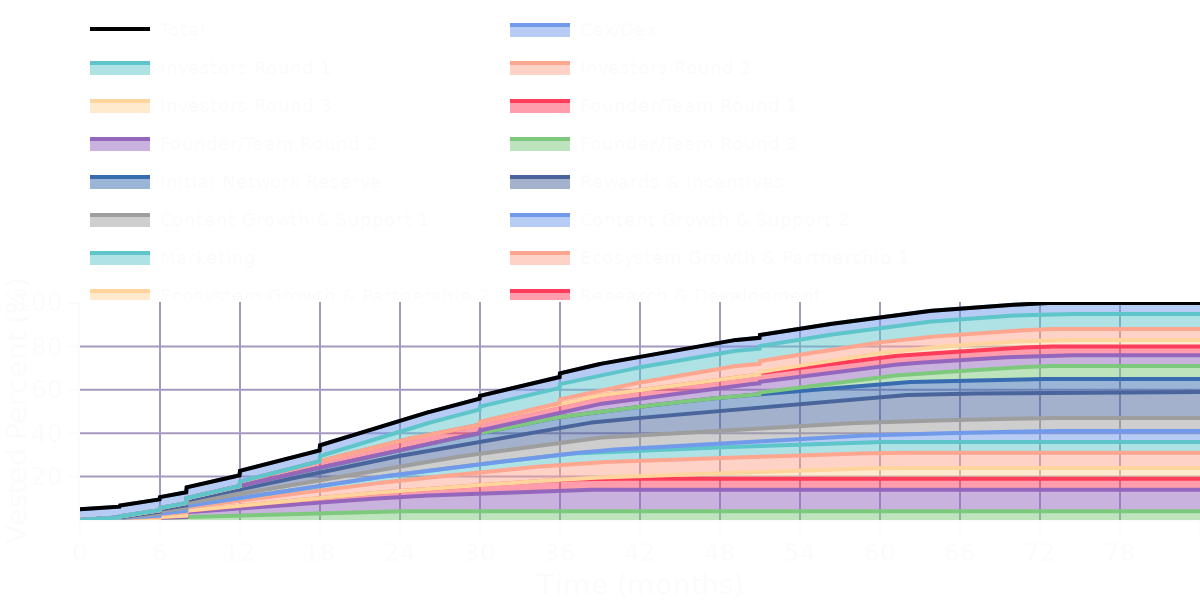
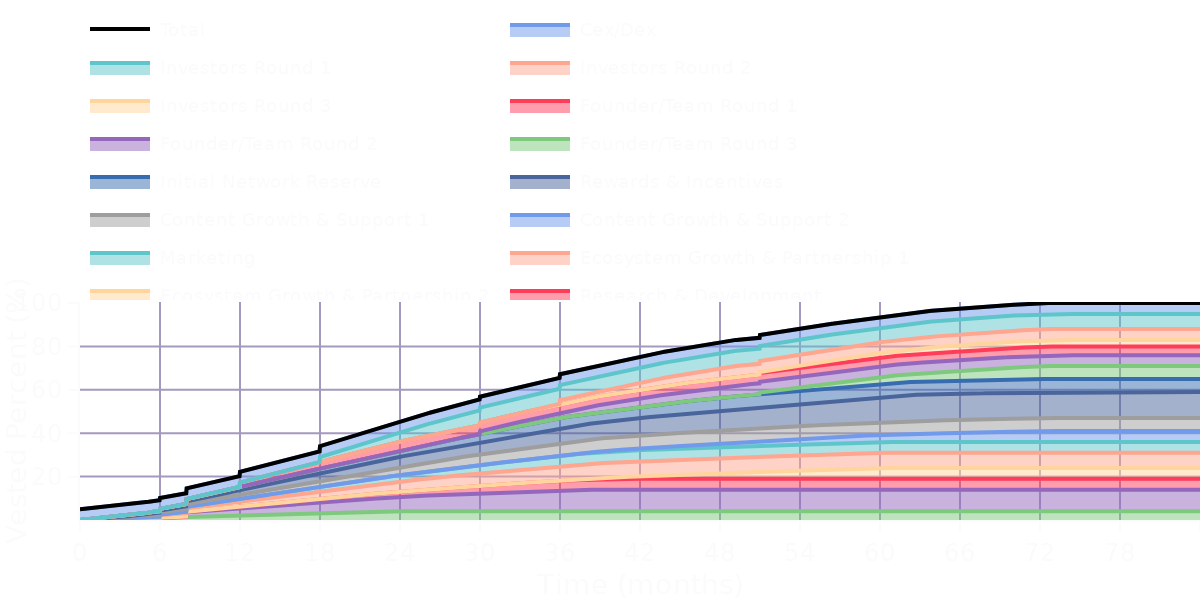
docs: added tokenomics

Changed region(s): [[0.0617, 0.6, 0.5858, 0.87], [0.5242, 0.57, 0.5858, 0.6]]

diff --git a/SEP/SEP-003/README.md b/SEP/SEP-003/README.md
@@ -39,12 +39,12 @@ The allocation and vesting of tokens are as follows:
 | Founder/Team Round 3             |                6 |                      48 |                       3 |                          24 |
 | Initial Network Reserve          |                6 |                       0 |                       0 |                          48 |
 | Rewards & Incentives             |               12 |                       2 |                       0 |                          60 |
-| Content Growth & Support 1       |                6 |                       0 |                       3 |                          36 |
+| Content Growth & Support 1       |                6 |                       0 |                       0 |                          36 |
 | Content Growth & Support 2       |                5 |                      36 |                       0 |                          36 |
 | Marketing                        |                5 |                       3 |                       0 |                          36 |
 | Ecosystem Growth & Partnership 1 |                7 |                       0 |                       0 |                          36 |
 | Ecosystem Growth & Partnership 2 |                5 |                      36 |                       0 |                          24 |
-| Research & Development           |                5 |                       3 |                       0 |                          36 |
+| Research & Development           |                5 |                       6 |                       0 |                          36 |
 | Private Sale                     |               10 |                       0 |                       8 |                          36 |
 | Advisors/Legals                  |                4 |                       0 |                       6 |                          24 |
 
@@ -137,7 +137,7 @@ The results projected here are based on growth assumptions for the Rent/Subscrip
 
 Based on the simulation results, the MMC token is expected to evolve in value as follows:
 
-![Projected KPIs](resources/kpi.png)
+![Projected KPIs](resources/kpi_48.png)
 
 ![Token price](resources/token_price.png)
 
@@ -169,5 +169,5 @@ The treasury is expected to have the following funds under management:
 
 ![Funds under management](resources/funds_under_management.png)
 
-By year 4, the treasury is expected to have a total value of approximately $439000000 under management, with 99% in native tokens and 0% in other currencies.
+By year 4, the treasury is expected to have a total value of approximately $431000000 under management, with 99% in native tokens and 0% in other currencies.
 
